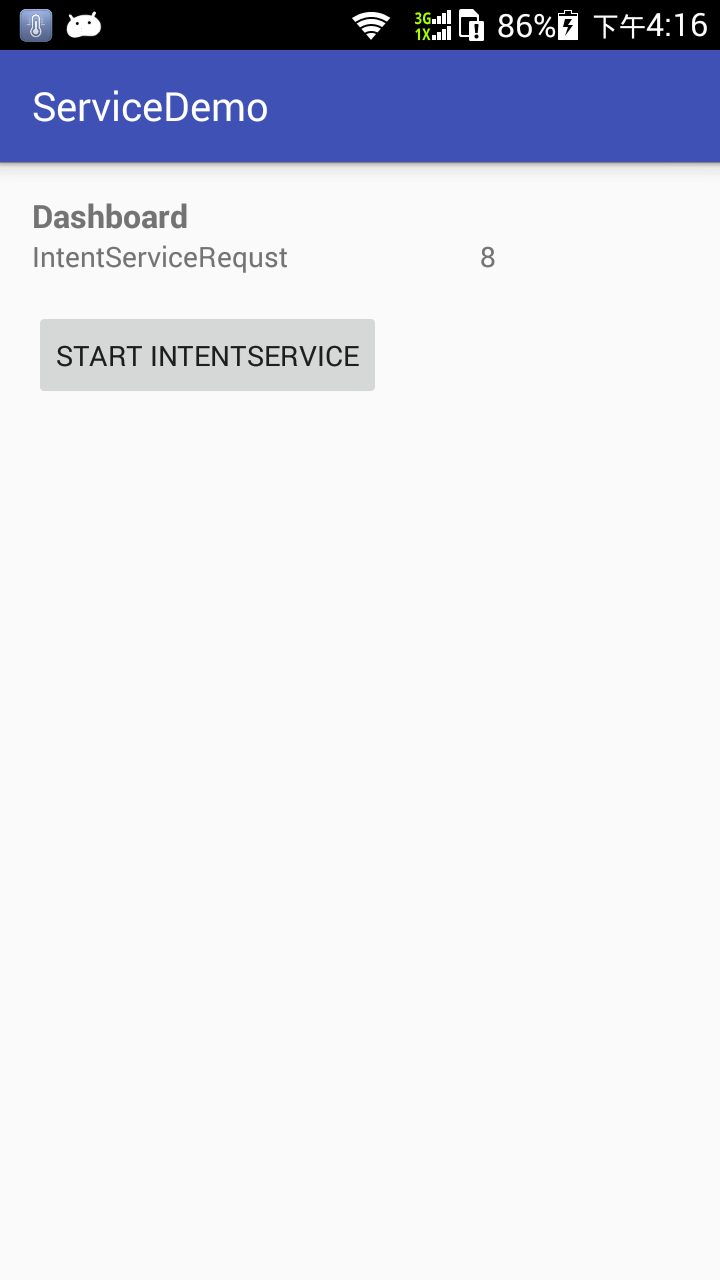
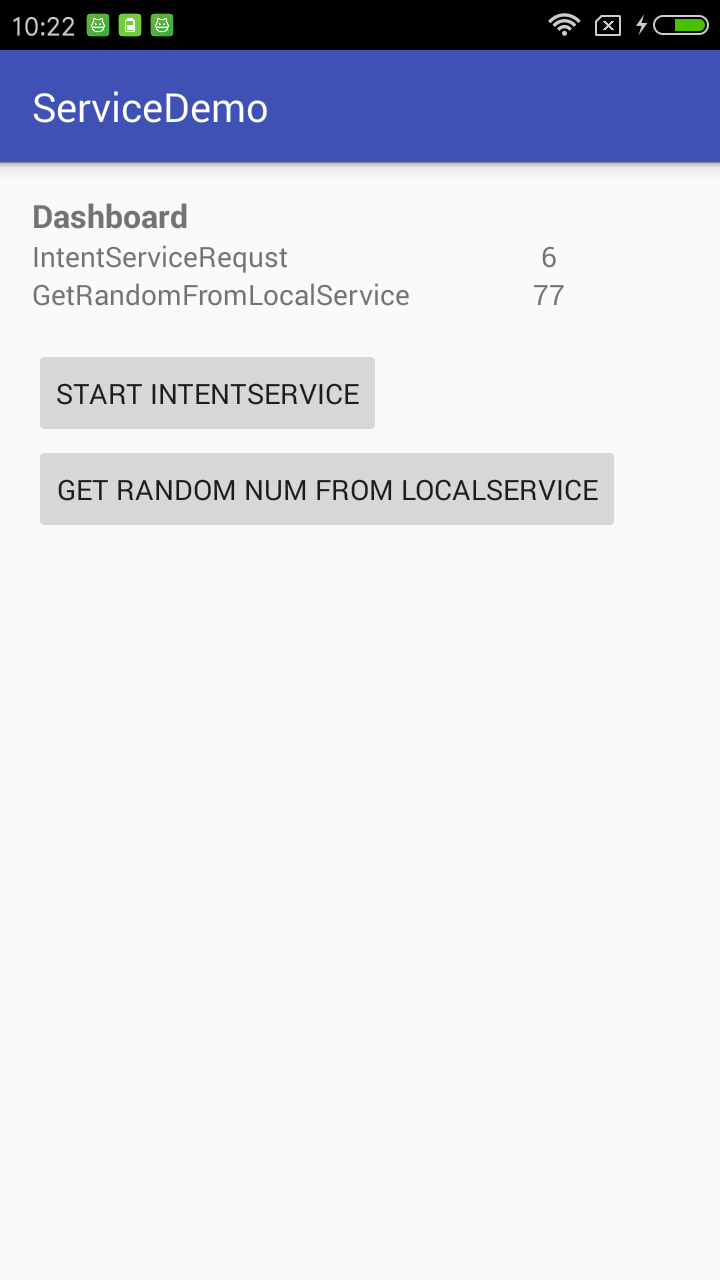
Explored the bound service through extending the Binder approach to implement a simple in-app client-server communication.

diff --git a/ServiceDemo/app/src/main/java/com/example/timsong/servicedemo/MainActivity.java b/ServiceDemo/app/src/main/java/com/example/timsong/servicedemo/MainActivity.java
@@ -1,6 +1,10 @@
 package com.example.timsong.servicedemo;
 
+import android.content.ComponentName;
+import android.content.Context;
 import android.content.Intent;
+import android.content.ServiceConnection;
+import android.os.IBinder;
 import android.support.v7.app.AppCompatActivity;
 import android.os.Bundle;
 import android.view.View;
@@ -10,6 +14,21 @@ public class MainActivity extends AppCompatActivity {
 
     private int mIntentServiceRequestCount;
     private TextView mIntentServiceRequestCounterView;
+    private ServiceConnection mServiceConnection = new ServiceConnection() {
+        @Override
+        public void onServiceConnected(ComponentName name, IBinder service) {
+            LocalService.LocalBinder binder = (LocalService.LocalBinder) service;
+            mRandomNumService = (LocalService) binder.getService();
+            isBound = true;
+        }
+
+        @Override
+        public void onServiceDisconnected(ComponentName name) {
+            isBound = false;
+        }
+    };
+    private LocalService mRandomNumService;
+    private boolean isBound;
 
     @Override
     protected void onCreate(Bundle savedInstanceState) {
@@ -28,5 +47,27 @@ public class MainActivity extends AppCompatActivity {
             mIntentServiceRequestCounterView = (TextView) findViewById(R.id.text_view_intent_service_request_count);
         }
         mIntentServiceRequestCounterView.setText(String.valueOf(++mIntentServiceRequestCount));
+    }
+
+    @Override
+    protected void onStart() {
+        super.onStart();
+        bindService(new Intent(this, LocalService.class), mServiceConnection, Context.BIND_AUTO_CREATE);
+    }
+
+    @Override
+    protected void onStop() {
+        super.onStop();
+        if(isBound){
+            unbindService(mServiceConnection);
+            isBound = false;
+        }
+    }
+
+    public void getRandomNumFromLocalService(View view) {
+        if(isBound){
+            int num = mRandomNumService.getRandomNum();
+            ((TextView)findViewById(R.id.text_view_random_num)).setText(String.valueOf(num));
+        }
     }
 }

diff --git a/ServiceDemo/app/src/main/java/com/example/timsong/servicedemo/LocalService.java b/ServiceDemo/app/src/main/java/com/example/timsong/servicedemo/LocalService.java
@@ -1,0 +1,38 @@
+package com.example.timsong.servicedemo;
+
+import android.app.Service;
+import android.content.Intent;
+import android.os.Binder;
+import android.os.IBinder;
+
+import java.util.Random;
+
+public class LocalService extends Service {
+    private IBinder mBinder = new LocalBinder();
+    private Random mRandomGenerator = new Random();
+
+    public LocalService() {
+    }
+
+    @Override
+    public IBinder onBind(Intent intent) {
+        return mBinder;
+    }
+
+    /**
+     * In-application communication Binder.
+     */
+    public class LocalBinder extends Binder {
+        public Service getService() {
+            return LocalService.this;
+        }
+    }
+
+    /**
+     * Method for clients to call. Executed in main thread, take care.
+     * @return A randomly generated integer between 0 and 99.
+     */
+    public int getRandomNum(){
+        return mRandomGenerator.nextInt(100);
+    }
+}
